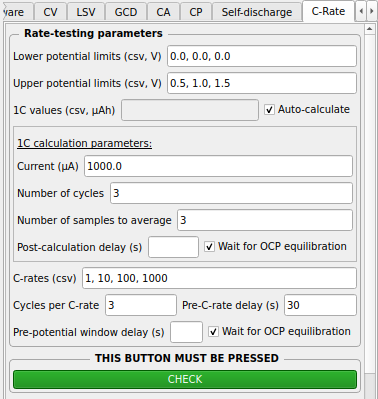
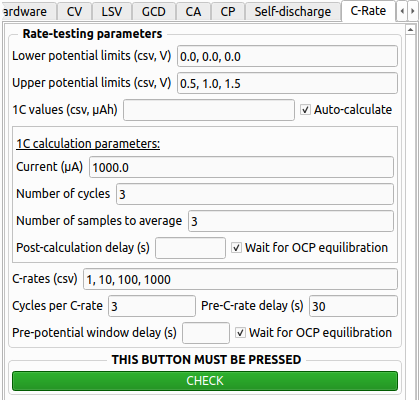
Updated paper figures

Changed region(s): [[0.0, 0.0, 0.9894, 1.0]]

diff --git a/src/potentiostat_controller/potentiostat_controller_v1.py b/src/potentiostat_controller/potentiostat_controller_v1.py
@@ -267,7 +267,7 @@ class Legends:
 				except AttributeError:
 					pass  # Legend might have already been removed
 
-def add_legend_item(legend, curve, name, fontsize="10pt"):
+def add_legend_item(legend, curve, name, fontsize="12pt"):
 	"""Add a curve to a LegendItem."""
 	legend.addItem(curve, name)
 	label_item = legend.items[-1][1]

diff --git a/paper/paper.md b/paper/paper.md
@@ -70,15 +70,19 @@ To improve software and experimental accessibility, hover-over tooltips are feat
 
 ![The rate-testing experiment tab showing user input fields and checkboxes, with a green `CHECK` button indicating that the experiment parameters are valid.\label{fig:rate_tab}](figures/rate_tab.png){width="80%"}
 
+![The rate-testing experiment tab showing user input fields and checkboxes, with a green `CHECK` button indicating that the experiment parameters are valid.\label{fig:rate_tab}](figures/rate_tab_pyside6.png){width="80%"}
+
 ![An example GUI during a cyclic voltammetry experiment showing real-time data visualisation options, experiment progress information, and optional experiment notes to be written to the summary file.\label{fig:CV_GUI}](figures/CV_GUI.png){width="100%"}
 
-![An example GUI during a cyclic voltammetry experiment showing real-time data visualisation options, experiment progress information, and optional experiment notes to be written to the summary file.\label{fig:CV_GUI}](figures/CV_GUI_blank.png){width="100%"}
+![An example GUI during a cyclic voltammetry experiment showing real-time data visualisation options, experiment progress information, and optional experiment notes to be written to the summary file.\label{fig:CV_GUI}](figures/CV_GUI_pyside6.png){width="100%"}
 
 ![Flowchart of the typical execution stack for a set of experiments.\label{fig:flowchart}](figures/flowchart_mainloop.png){width="100%"}
 
 ![Sections of the summary file generated for the CV experiments seen running in \autoref{fig:CV_GUI}, with a base filename of `2025-06-25`.\label{fig:summary_file}](figures/summary_file.png){width="100%"}
 
 ![A tooltip for the current input when automatically calculating 1C for rate-testing experiments.\label{fig:tooltip}](figures/tooltip.png){width="80%"}
+
+![A tooltip for the current input when automatically calculating 1C for rate-testing experiments.\label{fig:tooltip}](figures/tooltip_pyside6.png){width="80%"}
 
 # Acknowledgements
 This work was supported by the UK Engineering and Physical Sciences Research Council and the Renewable Energy Northeast Universities (ReNU) CDT (EP/S023836/1).
